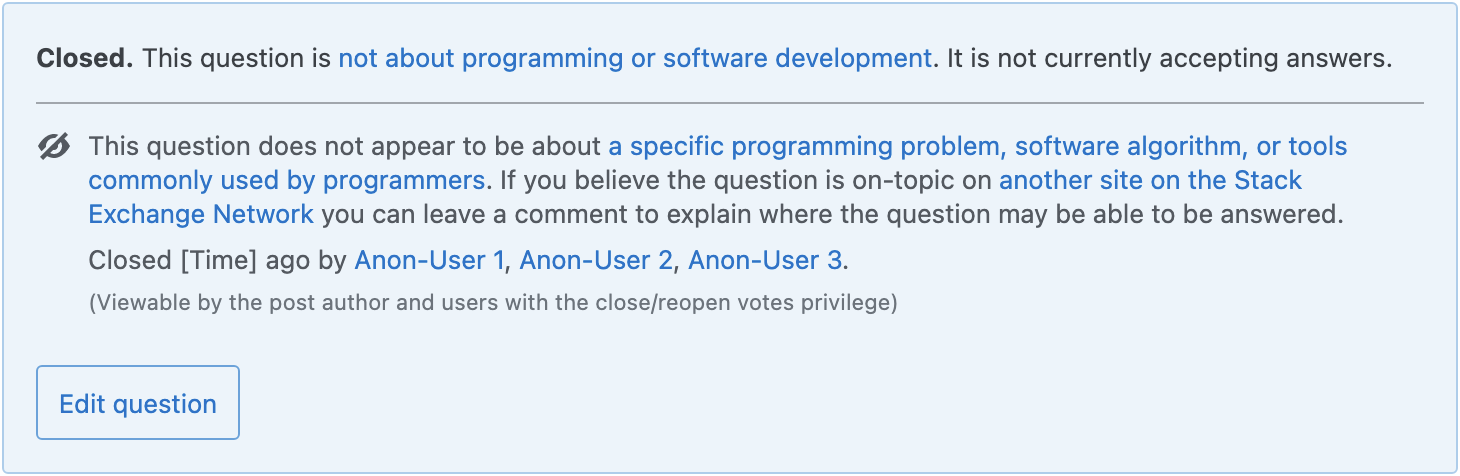
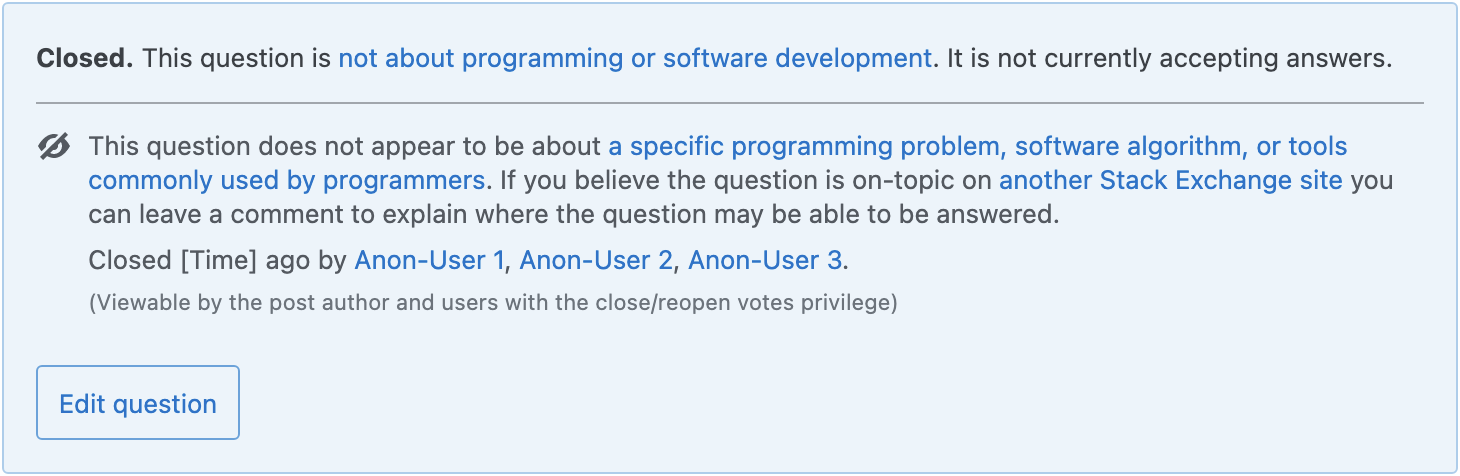
Consistency of wording "another Stack Exchange site"

Changed region(s): [[0.0616, 0.4118, 0.9247, 0.4706], [0.7397, 0.3529, 0.9555, 0.4118]]

diff --git a/builders/html-output/mock-privileged-banner-rendered.html b/builders/html-output/mock-privileged-banner-rendered.html
@@ -46,7 +46,7 @@
             </div>
             <div class="flex--item lh-md">
                 <p class="mb0">
-                    This question does not appear to be about <a href="https://stackoverflow.com/help/on-topic">a specific programming problem, software algorithm, or tools commonly used by programmers</a>. If you believe the question is on-topic on <a href="https://stackexchange.com/sites">another site on the Stack Exchange Network</a> you can leave a comment to explain where the question may be able to be answered.
+                    This question does not appear to be about <a href="https://stackoverflow.com/help/on-topic">a specific programming problem, software algorithm, or tools commonly used by programmers</a>. If you believe the question is on-topic on <a href="https://stackexchange.com/sites">another Stack Exchange site</a> you can leave a comment to explain where the question may be able to be answered.
                 </p>
                 <p class="mb0 mt6">Closed <span title="2022-05-12 17:33:51Z"
                                                 class="relativetime">[Time] ago</span>

diff --git a/answer.md b/answer.md
@@ -18,7 +18,7 @@ If there are issues that need to be addressed please leave a comment so the char
 | Usage guidance | This question does not appear to be about [a specific programming problem, software algorithm, or tools commonly used by programmers](/help/on-topic). It _may_ be able to be answered on [another Stack Exchange site](https://stackexchange.com/sites) but is not on-topic for $SiteName. | 283 |
 | Post notice close description | **Closed.** This question is [not about programming or software development](/help/closed-questions). It is not currently accepting answers. | 140 |
 | Post owner guidance | This question does not appear to be about [a specific programming problem, software algorithm, or tools commonly used by programmers](/help/on-topic). You can edit the question so it’s [on-topic](/help/on-topic) or see if it can be answered on [another Stack Exchange site](https://stackexchange.com/sites), but be sure to read the on-topic page for the site you choose before posting. | 385 |
-| Privileged user guidance | This question does not appear to be about [a specific programming problem, software algorithm, or tools commonly used by programmers](/help/on-topic). If you believe the question is on-topic on [another site on the Stack Exchange Network](https://stackexchange.com/sites) you can leave a comment to explain where the question may be able to be answered. | 353 |
+| Privileged user guidance | This question does not appear to be about [a specific programming problem, software algorithm, or tools commonly used by programmers](/help/on-topic). If you believe the question is on-topic on [another Stack Exchange site](https://stackexchange.com/sites) you can leave a comment to explain where the question may be able to be answered. | 338 |
 
 ---
 

diff --git a/builders/md-output/table.md b/builders/md-output/table.md
@@ -4,4 +4,4 @@
 | Usage guidance | This question does not appear to be about [a specific programming problem, software algorithm, or tools commonly used by programmers](/help/on-topic). It _may_ be able to be answered on [another Stack Exchange site](https://stackexchange.com/sites) but is not on-topic for $SiteName. | 283 |
 | Post notice close description | **Closed.** This question is [not about programming or software development](/help/closed-questions). It is not currently accepting answers. | 140 |
 | Post owner guidance | This question does not appear to be about [a specific programming problem, software algorithm, or tools commonly used by programmers](/help/on-topic). You can edit the question so it’s [on-topic](/help/on-topic) or see if it can be answered on [another Stack Exchange site](https://stackexchange.com/sites), but be sure to read the on-topic page for the site you choose before posting. | 385 |
-| Privileged user guidance | This question does not appear to be about [a specific programming problem, software algorithm, or tools commonly used by programmers](/help/on-topic). If you believe the question is on-topic on [another site on the Stack Exchange Network](https://stackexchange.com/sites) you can leave a comment to explain where the question may be able to be answered. | 353 |
+| Privileged user guidance | This question does not appear to be about [a specific programming problem, software algorithm, or tools commonly used by programmers](/help/on-topic). If you believe the question is on-topic on [another Stack Exchange site](https://stackexchange.com/sites) you can leave a comment to explain where the question may be able to be answered. | 338 |
